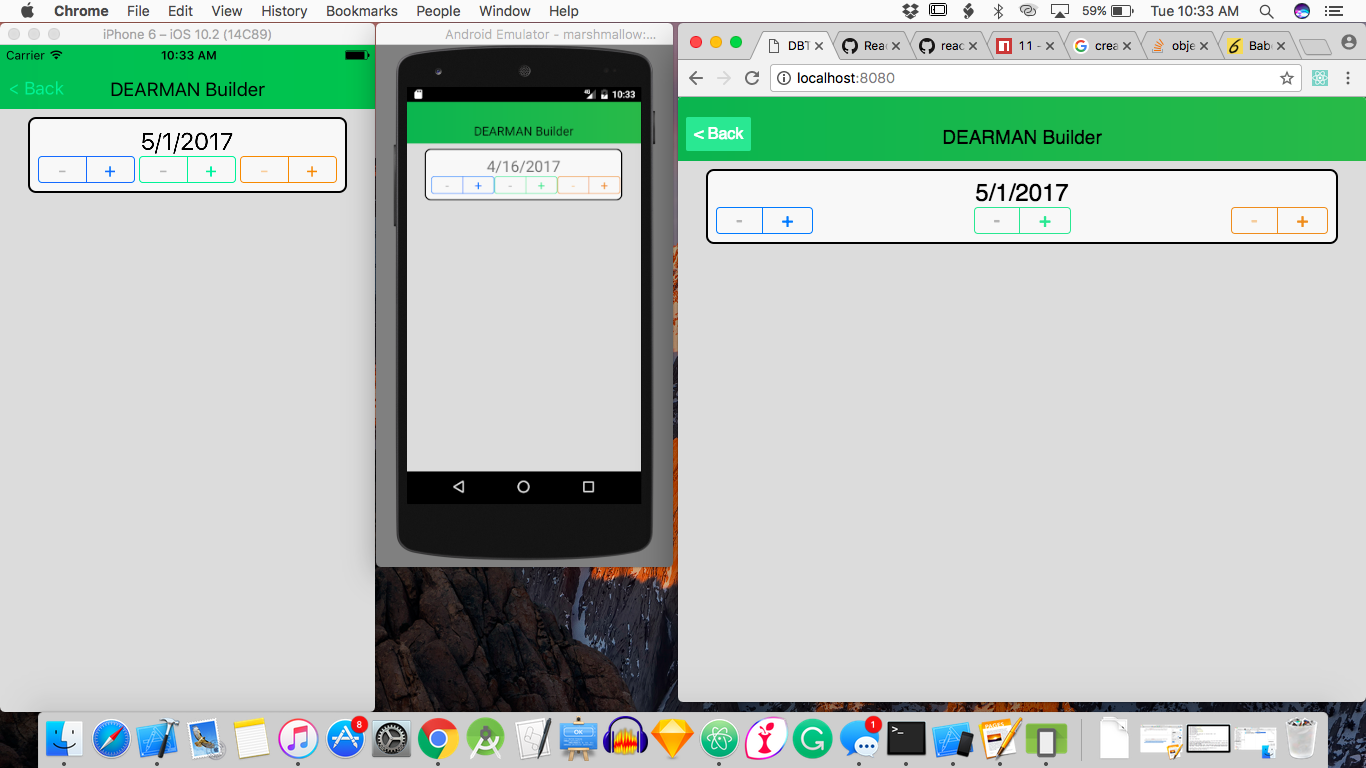
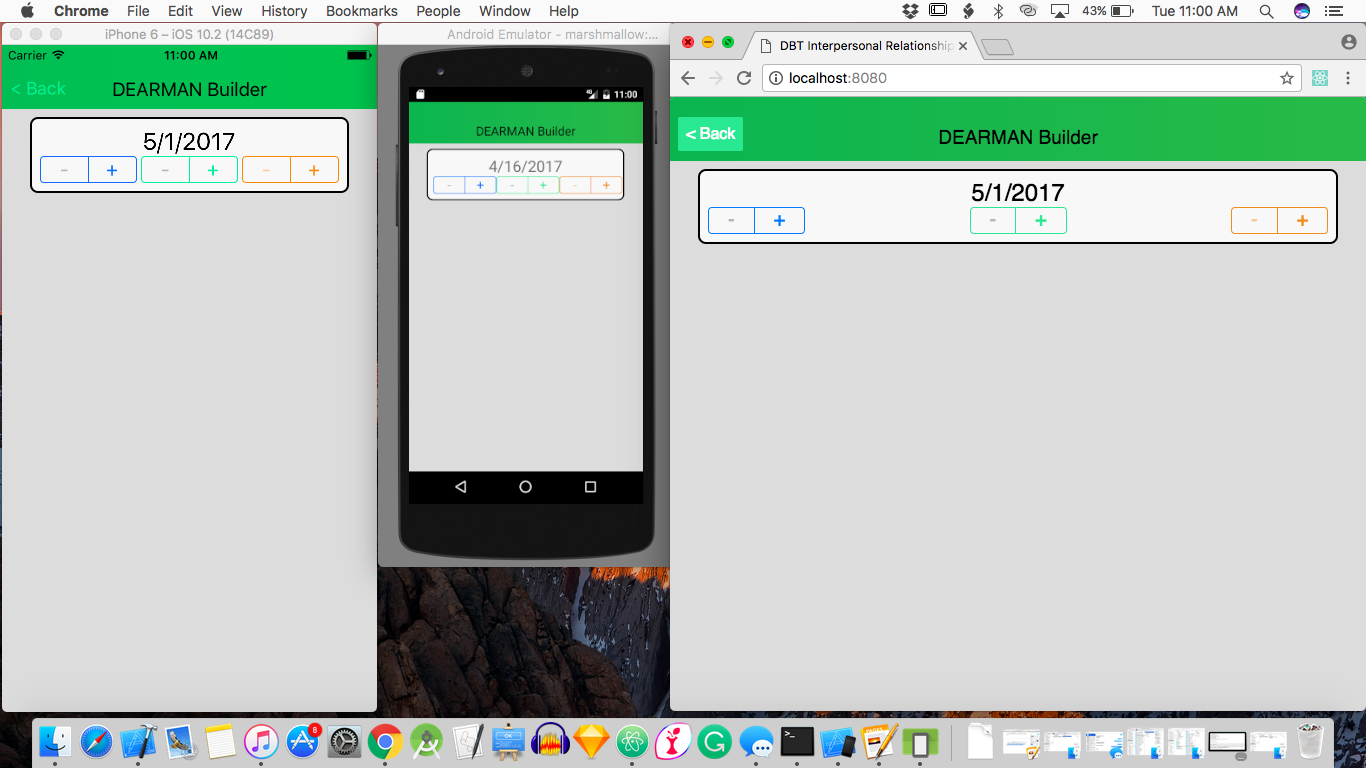
fixing styles

diff --git a/index.web.js b/index.web.js
@@ -1,8 +1,12 @@
 'use strict';
 
-exports.__esModule = true;
+Object.defineProperty(exports, "__esModule", {
+  value: true
+});
 
 var _extends = Object.assign || function (target) { for (var i = 1; i < arguments.length; i++) { var source = arguments[i]; for (var key in source) { if (Object.prototype.hasOwnProperty.call(source, key)) { target[key] = source[key]; } } } return target; };
+
+var _createClass = function () { function defineProperties(target, props) { for (var i = 0; i < props.length; i++) { var descriptor = props[i]; descriptor.enumerable = descriptor.enumerable || false; descriptor.configurable = true; if ("value" in descriptor) descriptor.writable = true; Object.defineProperty(target, descriptor.key, descriptor); } } return function (Constructor, protoProps, staticProps) { if (protoProps) defineProperties(Constructor.prototype, protoProps); if (staticProps) defineProperties(Constructor, staticProps); return Constructor; }; }();
 
 var _react = require('react');
 
@@ -24,7 +28,7 @@ var Stepper = function (_React$Component) {
   function Stepper(props) {
     _classCallCheck(this, Stepper);
 
-    var _this = _possibleConstructorReturn(this, _React$Component.call(this, props));
+    var _this = _possibleConstructorReturn(this, (Stepper.__proto__ || Object.getPrototypeOf(Stepper)).call(this, props));
 
     _this.state = {
       value: _this.props.value,
@@ -34,41 +38,45 @@ var Stepper = function (_React$Component) {
     return _this;
   }
 
-  Stepper.prototype.onPress = function onPress(value) {
-    var newValue = undefined;
-    if (this.state.value + value >= this.state.minValue && this.state.value + value <= this.state.maxValue) {
-      newValue = this.state.value + value;
+  _createClass(Stepper, [{
+    key: 'onPress',
+    value: function onPress(value) {
+      var newValue = undefined;
+      if (this.state.value + value >= this.state.minValue && this.state.value + value <= this.state.maxValue) {
+        newValue = this.state.value + value;
+      }
+      if (newValue != undefined) {
+        this.setState({ value: newValue });
+      }
     }
-    if (newValue != undefined) {
-      this.setState({ value: newValue });
+  }, {
+    key: 'render',
+    value: function render() {
+      return _react2.default.createElement(
+        _reactNative.View,
+        { style: _extends({ borderColor: this.props.color }, styles.view) },
+        _react2.default.createElement(
+          _reactNative.TouchableOpacity,
+          { disabled: this.state.value <= this.state.minValue, style: { flex: 1, paddingBottom: 2 }, onPress: this.onPress.bind(this, -1) },
+          _react2.default.createElement(
+            _reactNative.Text,
+            { style: _extends({}, styles.text, { color: this.state.value > this.state.minValue ? this.props.color : this.props.disabledColor }) },
+            '-'
+          )
+        ),
+        _react2.default.createElement(_reactNative.View, { style: { width: 1, height: 27, backgroundColor: this.props.color } }),
+        _react2.default.createElement(
+          _reactNative.TouchableOpacity,
+          { disabled: this.state.value >= this.state.maxValue, style: { flex: 1, paddingBottom: 2 }, onPress: this.onPress.bind(this, 1) },
+          _react2.default.createElement(
+            _reactNative.Text,
+            { style: _extends({}, styles.text, { color: this.state.value < this.state.maxValue ? this.props.color : this.props.disabledColor }) },
+            '+'
+          )
+        )
+      );
     }
-  };
-
-  Stepper.prototype.render = function render() {
-    return _react2.default.createElement(
-      _reactNative.View,
-      { style: _extends({ borderColor: this.props.color }, styles.view) },
-      _react2.default.createElement(
-        _reactNative.TouchableOpacity,
-        { disabled: this.state.value <= this.state.minValue, style: { flex: 1 }, onPress: this.onPress.bind(this, -1) },
-        _react2.default.createElement(
-          _reactNative.Text,
-          { style: _extends({}, styles.text, { color: this.state.value > this.state.minValue ? this.props.color : this.props.disabledColor }) },
-          '-'
-        )
-      ),
-      _react2.default.createElement(_reactNative.View, { style: { width: 1, height: 27, backgroundColor: this.props.color } }),
-      _react2.default.createElement(
-        _reactNative.TouchableOpacity,
-        { disabled: this.state.value >= this.state.maxValue, style: { flex: 1 }, onPress: this.onPress.bind(this, 1) },
-        _react2.default.createElement(
-          _reactNative.Text,
-          { style: _extends({}, styles.text, { color: this.state.value < this.state.maxValue ? this.props.color : this.props.disabledColor }) },
-          '+'
-        )
-      )
-    );
-  };
+  }]);
 
   return Stepper;
 }(_react2.default.Component);

diff --git a/index.js b/index.js
@@ -24,13 +24,13 @@ export default class Stepper extends React.Component {
   render() {
     return (
       <View style={{borderColor:this.props.color,...styles.view}}>
-        <TouchableOpacity disabled={this.state.value <= this.state.minValue} style={{flex:1}} onPress={this.onPress.bind(this, -1)}>
+        <TouchableOpacity disabled={this.state.value <= this.state.minValue} style={{flex:1,paddingBottom:2}} onPress={this.onPress.bind(this, -1)}>
           <Text style={{...styles.text, color:(this.state.value > this.state.minValue ? this.props.color : this.props.disabledColor)}}>
             -
           </Text>
         </TouchableOpacity>
         <View style={{width:1,height:27,backgroundColor:this.props.color}}/>
-        <TouchableOpacity disabled={this.state.value >= this.state.maxValue} style={{flex:1}} onPress={this.onPress.bind(this, 1)}>
+        <TouchableOpacity disabled={this.state.value >= this.state.maxValue} style={{flex:1,paddingBottom:2}} onPress={this.onPress.bind(this, 1)}>
           <Text style={{...styles.text, color:(this.state.value < this.state.maxValue ? this.props.color : this.props.disabledColor)}}>
             +
           </Text>
